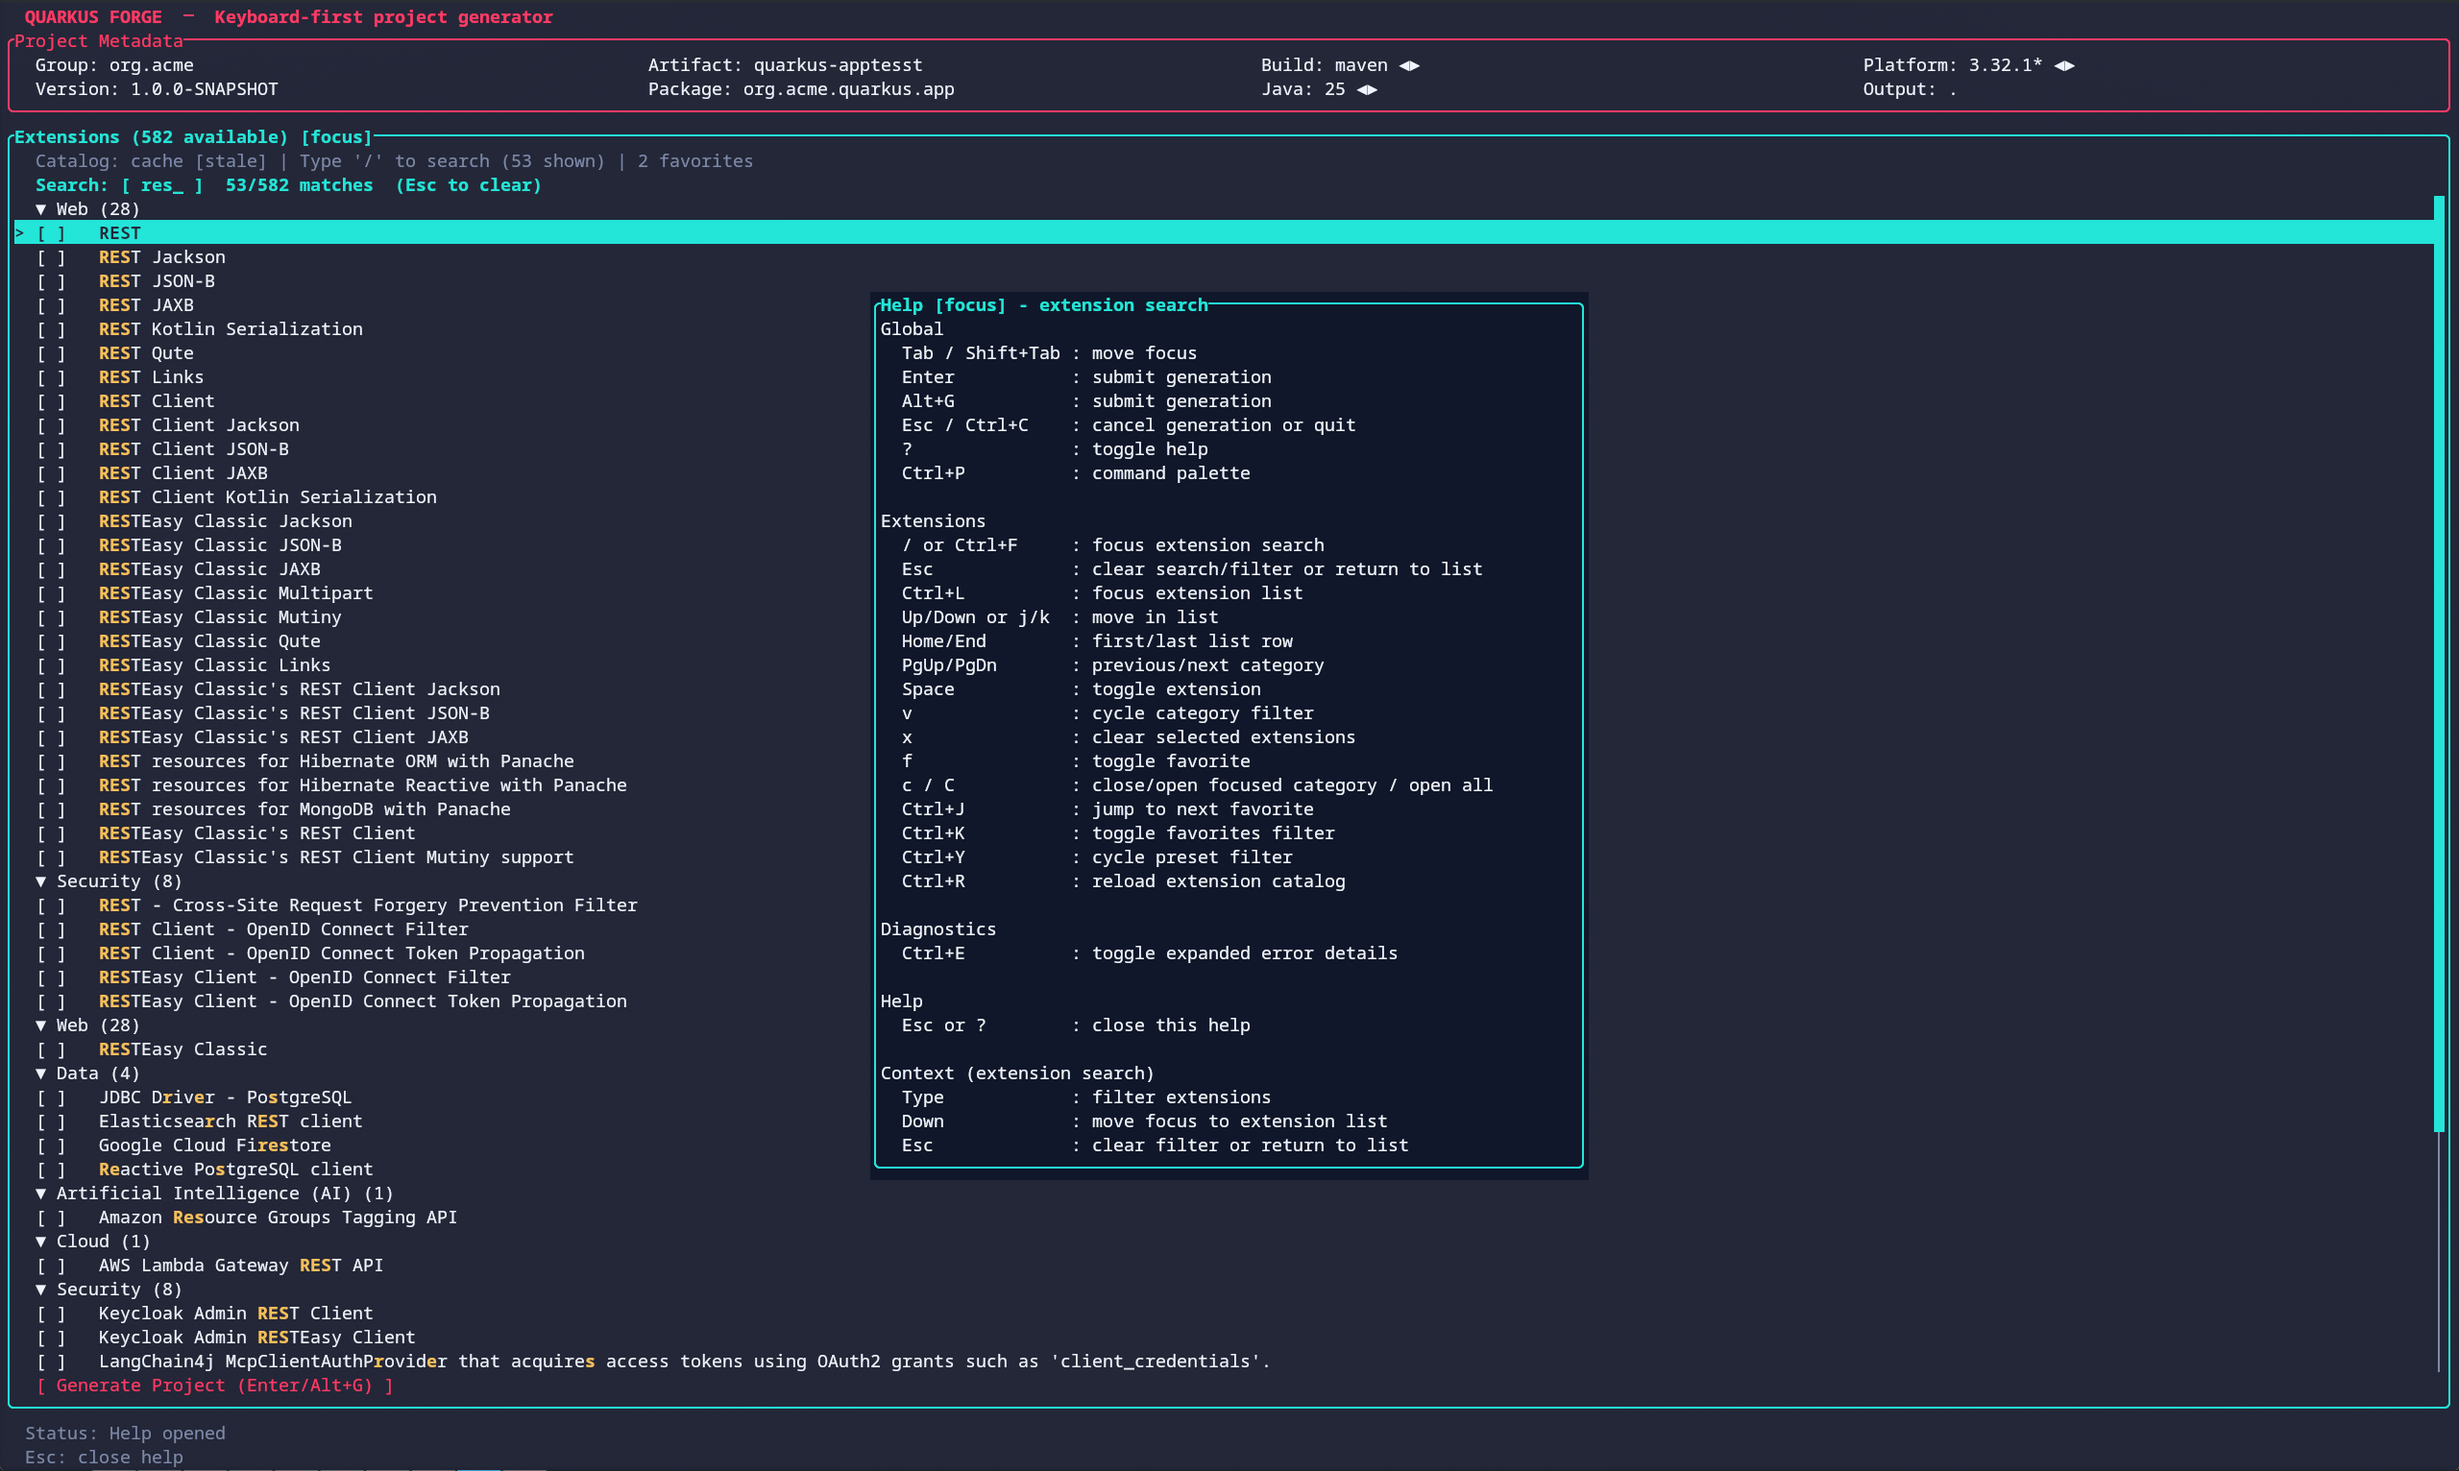
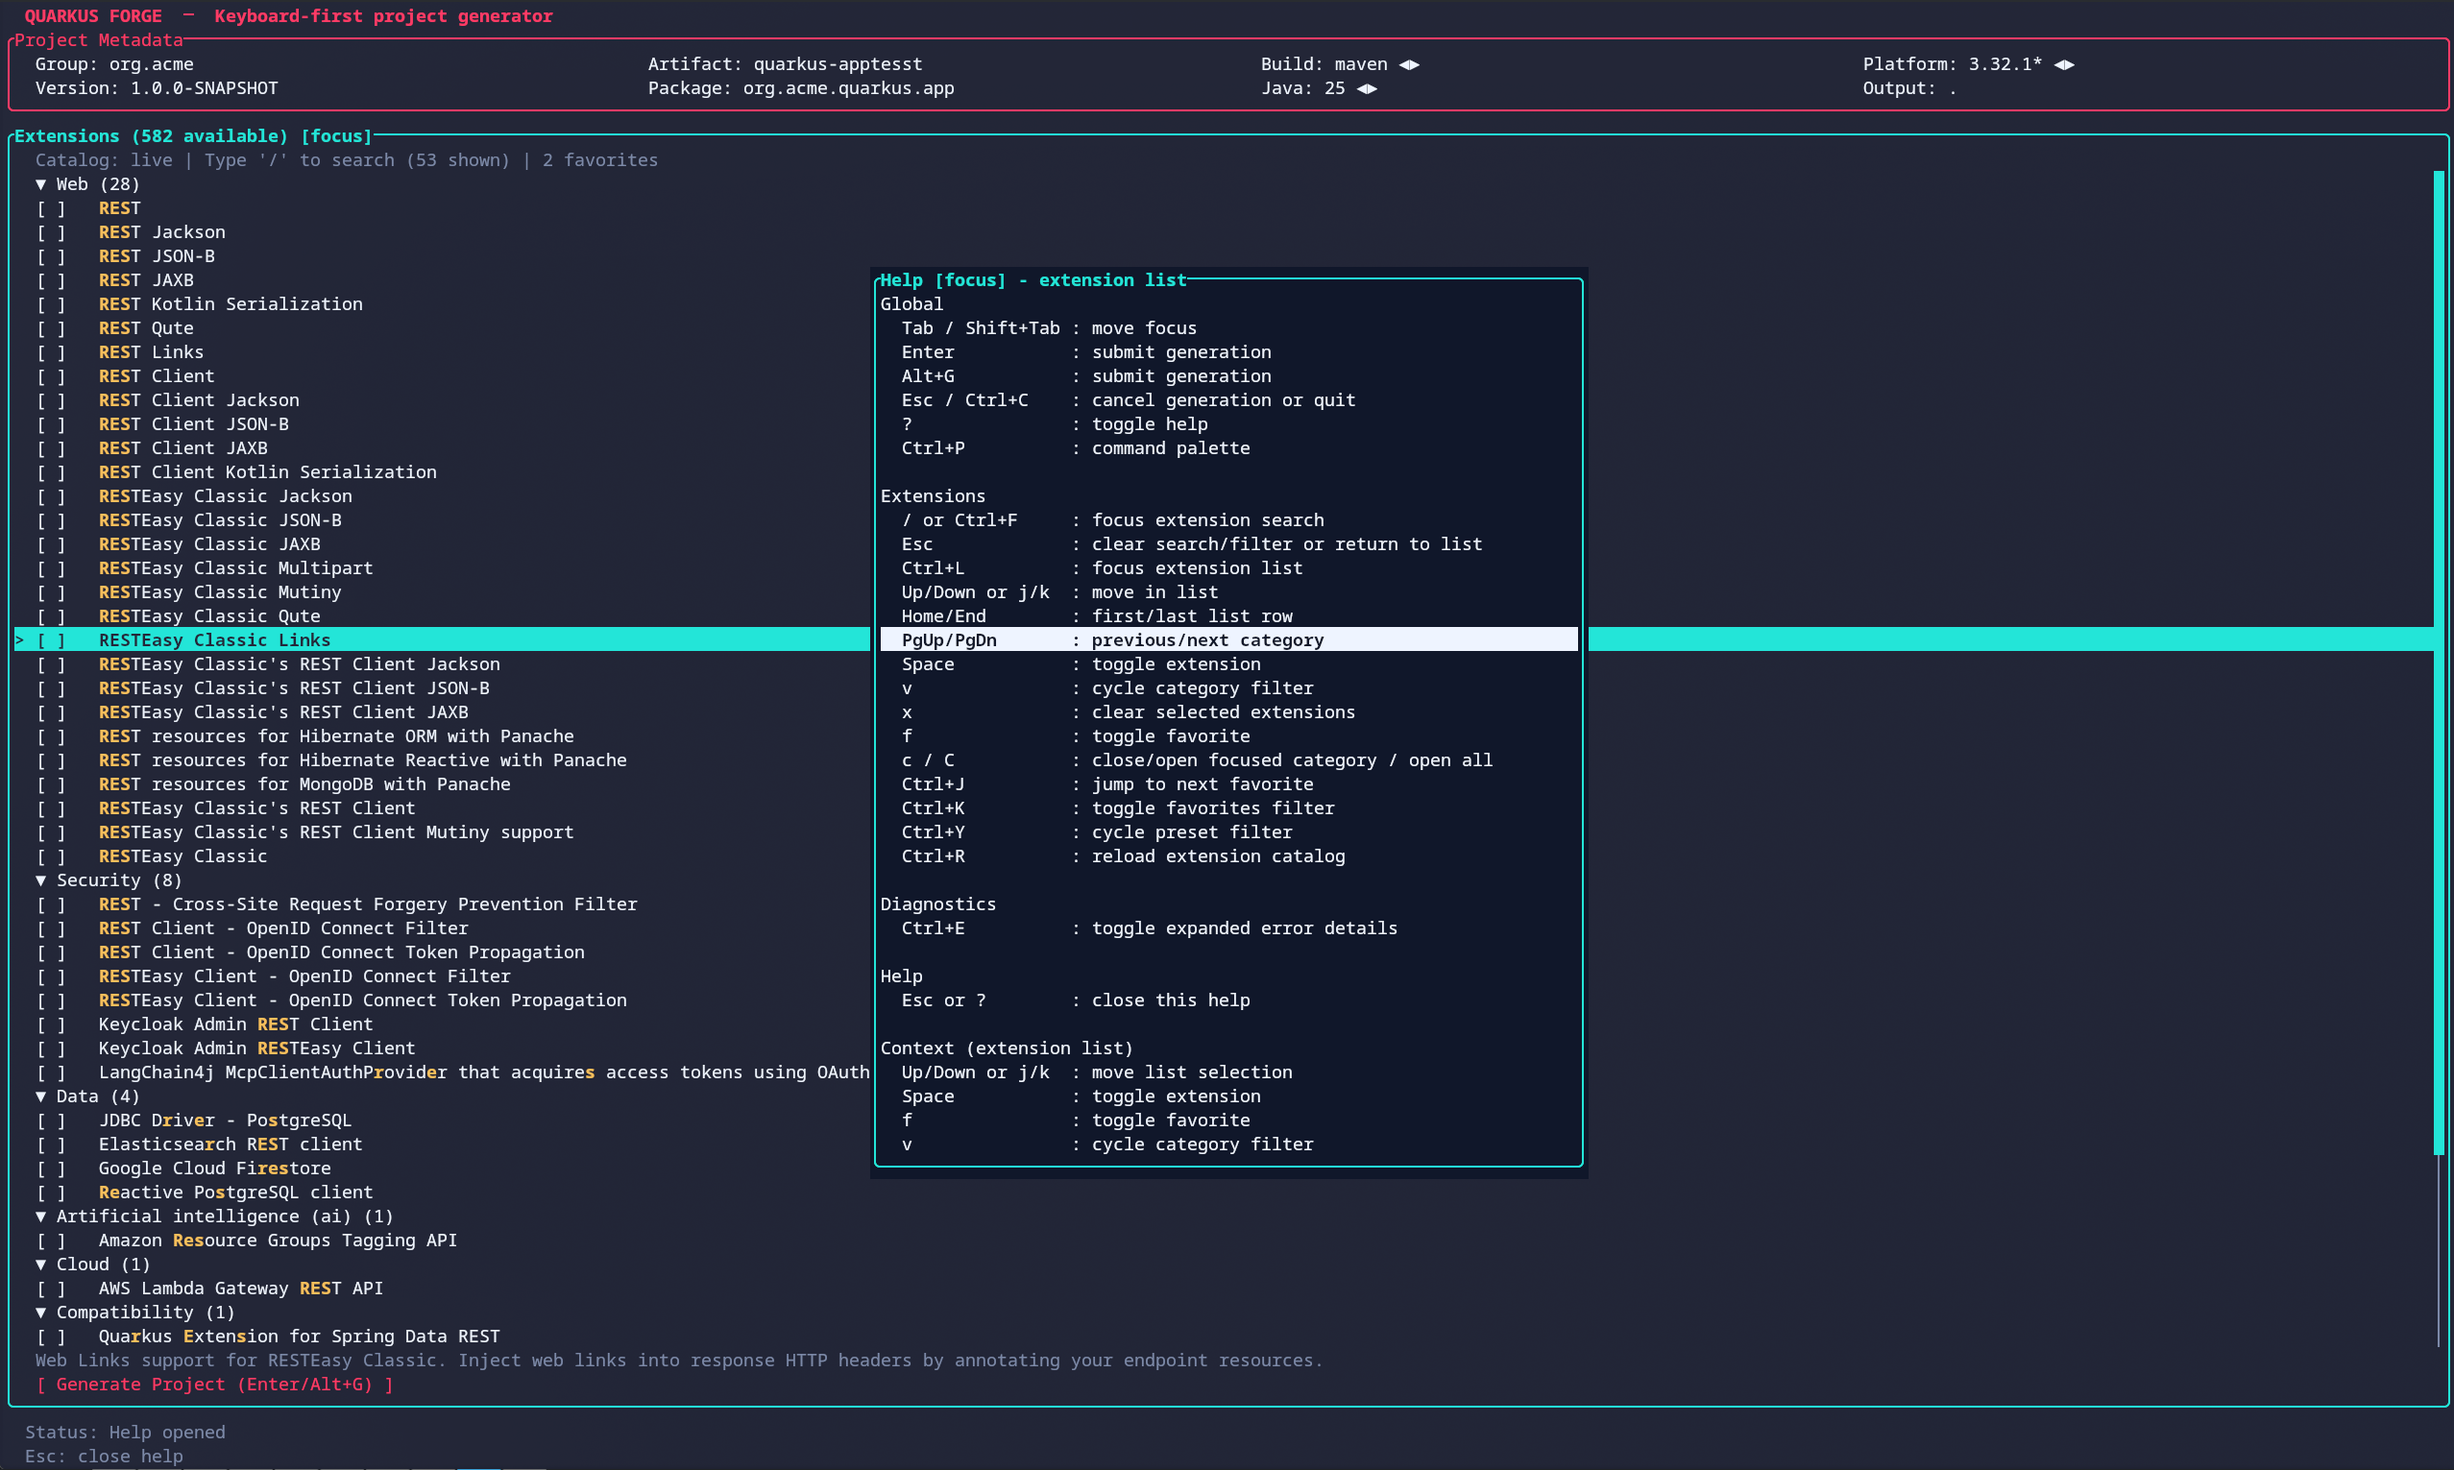
fix(api): preserve extension descriptions in catalog cache (#31)
* fix(api): preserve extension descriptions in catalog cache

* docs(images): refresh tui screenshot

* style(test): apply spotless formatting

Changed region(s): [[0.0, 0.0, 1.0, 0.9517], [0.7421, 0.0307, 0.8348, 0.0921], [0.4947, 0.0307, 0.5566, 0.0921]]

diff --git a/src/test/java/dev/ayagmar/quarkusforge/api/CatalogSnapshotCacheTest.java b/src/test/java/dev/ayagmar/quarkusforge/api/CatalogSnapshotCacheTest.java
@@ -38,6 +38,27 @@ class CatalogSnapshotCacheTest {
   }
 
   @Test
+  void writeThenReadPreservesExtensionDescriptions() {
+    Clock clock = Clock.fixed(Instant.parse("2026-02-22T00:00:00Z"), ZoneOffset.UTC);
+    CatalogSnapshotCache cache =
+        new CatalogSnapshotCache(
+            tempDir.resolve("catalog-snapshot.json"),
+            CatalogSnapshotCache.defaultPayloadCodec(),
+            clock,
+            Duration.ofHours(6),
+            2L * 1024L * 1024L);
+    List<ExtensionDto> extensions =
+        List.of(
+            new ExtensionDto(
+                "io.quarkus:quarkus-rest", "REST", "rest", "Web", 10, "REST endpoint support"));
+
+    assertThat(cache.write(sampleMetadata(), extensions).written()).isTrue();
+
+    CachedCatalogSnapshot snapshot = cache.read().orElseThrow();
+    assertThat(snapshot.extensions().getFirst().description()).isEqualTo("REST endpoint support");
+  }
+
+  @Test
   void readMarksSnapshotAsStaleWhenTtlExpired() {
     Path cacheFile = tempDir.resolve("catalog-snapshot.json");
     CatalogSnapshotCache writer =

diff --git a/src/main/java/dev/ayagmar/quarkusforge/api/CatalogSnapshotCache.java b/src/main/java/dev/ayagmar/quarkusforge/api/CatalogSnapshotCache.java
@@ -206,6 +206,7 @@ public final class CatalogSnapshotCache {
         extensionObject.put("shortName", extension.shortName());
         extensionObject.put("category", extension.category());
         extensionObject.put("order", extension.order());
+        extensionObject.put("description", extension.description());
         extensionArray.add(extensionObject);
       }
       return extensionArray;
